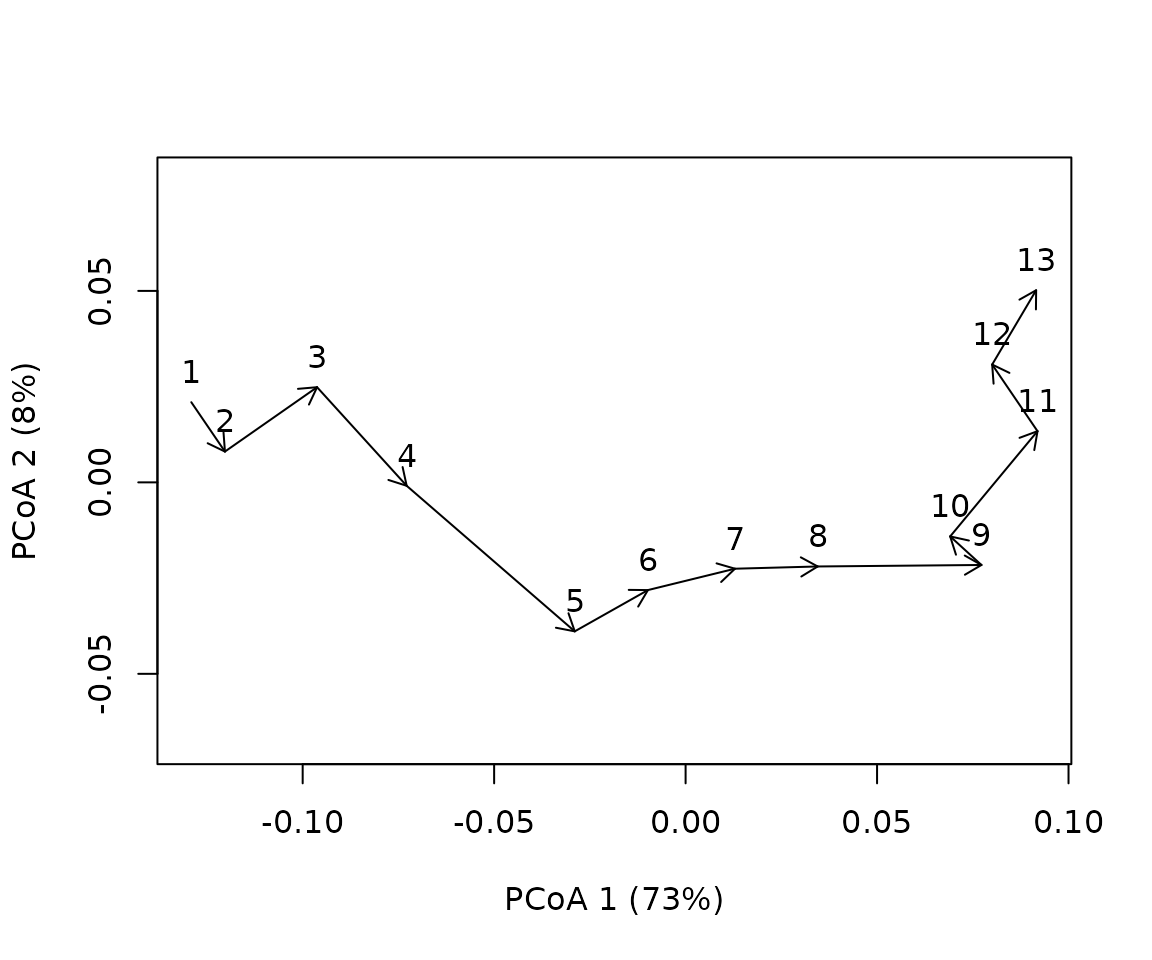
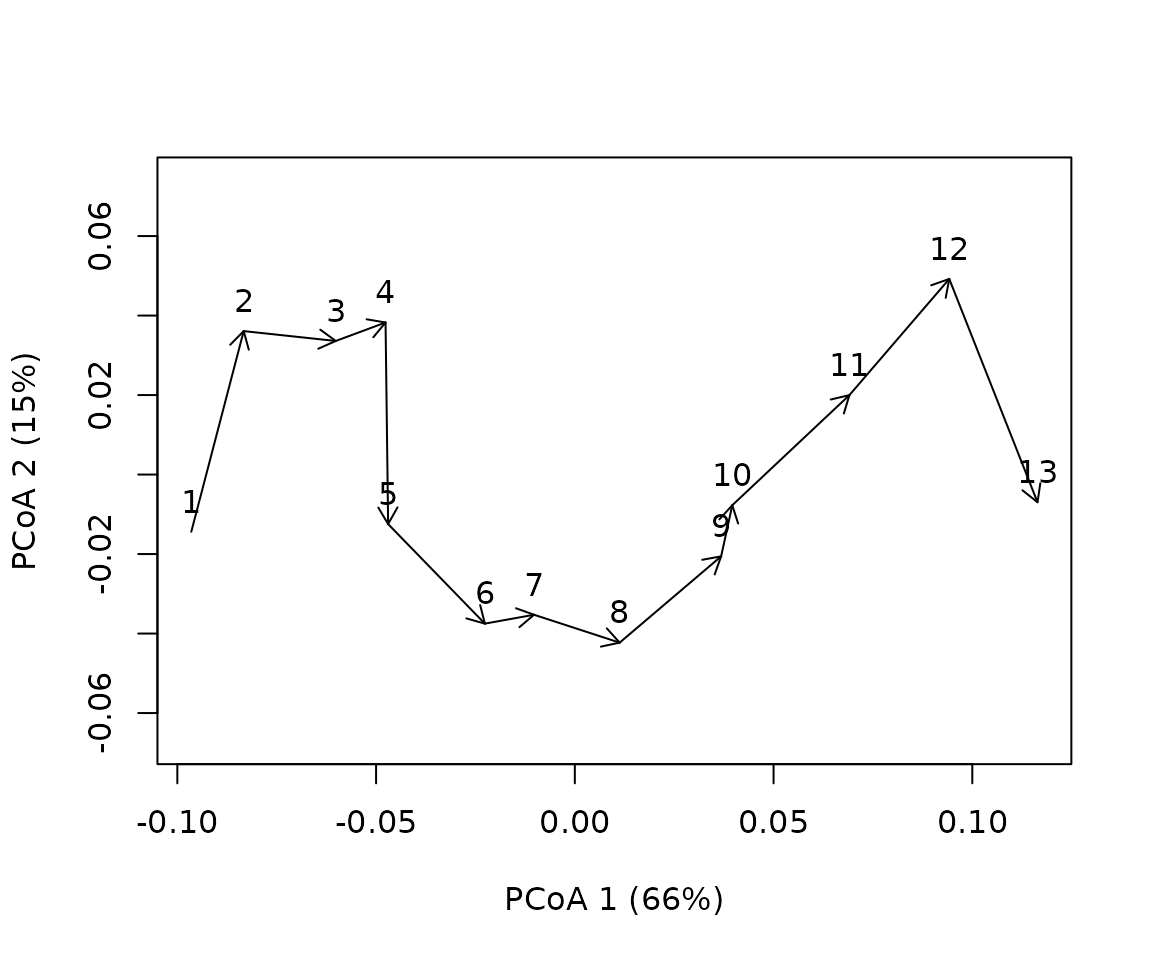
Built site for ecotraj: 0.1.1@

diff --git a/articles/Transformation.html b/articles/Transformation.html
@@ -33,7 +33,7 @@
       </button>
       <span class="navbar-brand">
         <a class="navbar-link" href="../index.html">ecotraj</a>
-        <span class="version label label-default" data-toggle="tooltip" data-placement="bottom" title="">0.1.0</span>
+        <span class="version label label-default" data-toggle="tooltip" data-placement="bottom" title="">0.1.1</span>
       </span>
     </div>
 
@@ -64,7 +64,7 @@ data</h1>
                         <h4 data-toc-skip class="author">Miquel De
 Cáceres</h4>
             
-            <h4 data-toc-skip class="date">2023-03-23</h4>
+            <h4 data-toc-skip class="date">2023-09-11</h4>
       
       
       <div class="hidden name"><code>Transformation.Rmd</code></div>
@@ -288,7 +288,7 @@ global solutions:</p>
 <span><span class="co">## </span></span>
 <span><span class="co">## Model: Symmetric SMACOF </span></span>
 <span><span class="co">## Number of objects: 13 </span></span>
-<span><span class="co">## Stress-1 value: 0.052 </span></span>
+<span><span class="co">## Stress-1 value: 0.053 </span></span>
 <span><span class="co">## Number of iterations: 0</span></span></code></pre>
 <div class="sourceCode" id="cb39"><pre class="downlit sourceCode r">
 <code class="sourceCode R"><span><span class="fu">smacof</span><span class="fu">::</span><span class="fu"><a href="https://rdrr.io/pkg/smacof/man/stress0.html" class="external-link">stress0</a></span><span class="op">(</span><span class="va">D</span>,<span class="va">pcoa</span><span class="op">$</span><span class="va">points</span>, type<span class="op">=</span><span class="st">"interval"</span><span class="op">)</span></span></code></pre></div>
@@ -298,7 +298,7 @@ global solutions:</p>
 <span><span class="co">## </span></span>
 <span><span class="co">## Model: Symmetric SMACOF </span></span>
 <span><span class="co">## Number of objects: 13 </span></span>
-<span><span class="co">## Stress-1 value: 0.009 </span></span>
+<span><span class="co">## Stress-1 value: 0.007 </span></span>
 <span><span class="co">## Number of iterations: 0</span></span></code></pre>
 <div class="sourceCode" id="cb41"><pre class="downlit sourceCode r">
 <code class="sourceCode R"><span><span class="fu">smacof</span><span class="fu">::</span><span class="fu"><a href="https://rdrr.io/pkg/smacof/man/stress0.html" class="external-link">stress0</a></span><span class="op">(</span><span class="va">D</span>,<span class="va">res</span><span class="op">$</span><span class="va">conf</span>, type<span class="op">=</span><span class="st">"interval"</span><span class="op">)</span></span></code></pre></div>
@@ -308,7 +308,7 @@ global solutions:</p>
 <span><span class="co">## </span></span>
 <span><span class="co">## Model: Symmetric SMACOF </span></span>
 <span><span class="co">## Number of objects: 13 </span></span>
-<span><span class="co">## Stress-1 value: 0.012 </span></span>
+<span><span class="co">## Stress-1 value: 0.013 </span></span>
 <span><span class="co">## Number of iterations: 0</span></span></code></pre>
 <p>Where we see that the square root leads to the strongest alteration
 of original dissimilarities. If we calculate geometric properties we are
@@ -323,16 +323,16 @@ dimensions.</p>
 <span><span class="va">df</span><span class="op">&lt;-</span><span class="fu"><a href="https://rdrr.io/r/base/as.data.frame.html" class="external-link">as.data.frame</a></span><span class="op">(</span><span class="fu"><a href="https://rdrr.io/r/base/cbind.html" class="external-link">rbind</a></span><span class="op">(</span><span class="va">anglesD</span>, <span class="va">anglesSqrtD</span>, <span class="va">anglesPcoaD</span>, <span class="va">anglesmmdsD</span><span class="op">)</span><span class="op">)</span></span>
 <span><span class="fu"><a href="https://rdrr.io/r/base/row.names.html" class="external-link">row.names</a></span><span class="op">(</span><span class="va">df</span><span class="op">)</span><span class="op">&lt;-</span><span class="fu"><a href="https://rdrr.io/r/base/c.html" class="external-link">c</a></span><span class="op">(</span><span class="st">"local"</span>, <span class="st">"global.sqrt"</span>, <span class="st">"global.pcoa"</span>, <span class="st">"global.mmds"</span><span class="op">)</span></span>
 <span><span class="fu"><a href="https://rdrr.io/r/base/Round.html" class="external-link">round</a></span><span class="op">(</span><span class="va">df</span>,<span class="fl">2</span><span class="op">)</span></span></code></pre></div>
-<pre><code><span><span class="co">##              S1-S2 S2-S3 S3-S4  S4-S5  S5-S6 S6-S7 S7-S8  S8-S9 S9-S10 S10-S11</span></span>
-<span><span class="co">## local        99.59 67.11  0.00  82.82 120.00  0.00  0.00    NaN  99.59   75.52</span></span>
-<span><span class="co">## global.sqrt 106.78 99.59 90.00 104.48 120.00 90.00 90.00 120.00 106.78  101.78</span></span>
-<span><span class="co">## global.pcoa 110.69 99.42 84.94 102.21 120.00 89.11 89.11 120.16 110.69  104.02</span></span>
-<span><span class="co">## global.mmds 104.52 85.74 59.71  95.86 123.02 60.89 51.24 130.01  94.94   86.16</span></span>
-<span><span class="co">##             S11-S12   mean   sd  rho</span></span>
-<span><span class="co">## local         82.82  65.52 0.78 0.74</span></span>
-<span><span class="co">## global.sqrt  104.48 103.07 0.18 0.98</span></span>
-<span><span class="co">## global.pcoa  108.27 103.52 0.20 0.98</span></span>
-<span><span class="co">## global.mmds   92.78  89.53 0.42 0.92</span></span></code></pre>
+<pre><code><span><span class="co">##             S1-S2 S2-S3  S3-S4 S4-S5 S5-S6 S6-S7  S7-S8 S8-S9 S9-S10 S10-S11</span></span>
+<span><span class="co">## local        0.00  0.00  97.18 62.72   0.0  0.00  75.52  0.00   0.00    0.00</span></span>
+<span><span class="co">## global.sqrt 90.00 90.00 104.48 98.30  90.0 90.00 101.78 90.00  90.00   90.00</span></span>
+<span><span class="co">## global.pcoa 82.73 97.67 106.77 93.15  94.1 97.67 101.86 94.10  94.10   83.48</span></span>
+<span><span class="co">## global.mmds 63.55 66.09 102.68 81.09  76.1 67.87  88.42 62.86  61.78   36.81</span></span>
+<span><span class="co">##             S11-S12  mean   sd  rho</span></span>
+<span><span class="co">## local         90.00 26.91 0.72 0.77</span></span>
+<span><span class="co">## global.sqrt  106.78 94.66 0.11 0.99</span></span>
+<span><span class="co">## global.pcoa  104.70 95.49 0.13 0.99</span></span>
+<span><span class="co">## global.mmds  100.19 73.43 0.32 0.95</span></span></code></pre>
 <p>The first call to <code>trajectoryAngles</code> with matrix
 <code>D</code> represents the default strategy of transforming triangles
 locally, which involves the weakest transformation of all and can be
@@ -346,19 +346,19 @@ transformation, compared to PCoA and the square root:</p>
 <div class="sourceCode" id="cb45"><pre class="downlit sourceCode r">
 <code class="sourceCode R"><span><span class="fu"><a href="../reference/trajectorymetrics.html">trajectoryDirectionality</a></span><span class="op">(</span><span class="va">D</span>,<span class="va">sites</span>,<span class="va">surveys</span><span class="op">)</span></span></code></pre></div>
 <pre><code><span><span class="co">##         1 </span></span>
-<span><span class="co">## 0.7222818</span></span></code></pre>
+<span><span class="co">## 0.7068225</span></span></code></pre>
 <div class="sourceCode" id="cb47"><pre class="downlit sourceCode r">
 <code class="sourceCode R"><span><span class="fu"><a href="../reference/trajectorymetrics.html">trajectoryDirectionality</a></span><span class="op">(</span><span class="va">sqrtD</span>,<span class="va">sites</span>,<span class="va">surveys</span><span class="op">)</span></span></code></pre></div>
 <pre><code><span><span class="co">##         1 </span></span>
-<span><span class="co">## 0.4624855</span></span></code></pre>
+<span><span class="co">## 0.4568228</span></span></code></pre>
 <div class="sourceCode" id="cb49"><pre class="downlit sourceCode r">
 <code class="sourceCode R"><span><span class="fu"><a href="../reference/trajectorymetrics.html">trajectoryDirectionality</a></span><span class="op">(</span><span class="va">pcoaD</span>,<span class="va">sites</span>,<span class="va">surveys</span><span class="op">)</span></span></code></pre></div>
 <pre><code><span><span class="co">##         1 </span></span>
-<span><span class="co">## 0.5238074</span></span></code></pre>
+<span><span class="co">## 0.5254678</span></span></code></pre>
 <div class="sourceCode" id="cb51"><pre class="downlit sourceCode r">
 <code class="sourceCode R"><span><span class="fu"><a href="../reference/trajectorymetrics.html">trajectoryDirectionality</a></span><span class="op">(</span><span class="va">mmdsD</span>,<span class="va">sites</span>,<span class="va">surveys</span><span class="op">)</span></span></code></pre></div>
-<pre><code><span><span class="co">##        1 </span></span>
-<span><span class="co">## 0.629571</span></span></code></pre>
+<pre><code><span><span class="co">##         1 </span></span>
+<span><span class="co">## 0.6120249</span></span></code></pre>
 </div>
 <div class="section level2">
 <h2 id="conclusions">4. Conclusions<a class="anchor" aria-label="anchor" href="#conclusions"></a>

diff --git a/reference/envelope.html b/reference/envelope.html
@@ -18,7 +18,7 @@ target stations/observations with respect to reference envelopes (Sturbois et al
       </button>
       <span class="navbar-brand">
         <a class="navbar-link" href="../index.html">ecotraj</a>
-        <span class="version label label-default" data-toggle="tooltip" data-placement="bottom" title="">0.1.0</span>
+        <span class="version label label-default" data-toggle="tooltip" data-placement="bottom" title="">0.1.1</span>
       </span>
     </div>
 
@@ -69,6 +69,7 @@ target stations/observations with respect to reference envelopes (Sturbois et al
 <span>  nboot.ci <span class="op">=</span> <span class="cn">NULL</span>,</span>
 <span>  alpha.ci <span class="op">=</span> <span class="fl">0.05</span>,</span>
 <span>  distances_to_envelope <span class="op">=</span> <span class="cn">FALSE</span>,</span>
+<span>  distance_percentiles <span class="op">=</span> <span class="cn">FALSE</span>,</span>
 <span>  <span class="va">...</span></span>
 <span><span class="op">)</span></span>
 <span></span>
@@ -79,6 +80,7 @@ target stations/observations with respect to reference envelopes (Sturbois et al
 <span>  nboot.ci <span class="op">=</span> <span class="cn">NULL</span>,</span>
 <span>  alpha.ci <span class="op">=</span> <span class="fl">0.05</span>,</span>
 <span>  distances_to_envelope <span class="op">=</span> <span class="cn">FALSE</span>,</span>
+<span>  distance_percentiles <span class="op">=</span> <span class="cn">FALSE</span>,</span>
 <span>  <span class="va">...</span></span>
 <span><span class="op">)</span></span></code></pre></div>
     </div>
@@ -119,6 +121,10 @@ target stations/observations with respect to reference envelopes (Sturbois et al
 
 <dt>distances_to_envelope</dt>
 <dd><p>Flag to indicate that distances to envelope should be included in the result</p></dd>
+
+
+<dt>distance_percentiles</dt>
+<dd><p>Flag to include the percentage of distances to the envelope (among sites corresponding to the reference) that are smaller than that of the site.</p></dd>
 
 </dl></div>
     <div id="value">

diff --git a/articles/IntroductionEQA.html b/articles/IntroductionEQA.html
@@ -33,7 +33,7 @@
       </button>
       <span class="navbar-brand">
         <a class="navbar-link" href="../index.html">ecotraj</a>
-        <span class="version label label-default" data-toggle="tooltip" data-placement="bottom" title="">0.1.0</span>
+        <span class="version label label-default" data-toggle="tooltip" data-placement="bottom" title="">0.1.1</span>
       </span>
     </div>
 
@@ -64,7 +64,7 @@
                         <h4 data-toc-skip class="author">Anthony
 Sturbois/Miquel De Cáceres</h4>
             
-            <h4 data-toc-skip class="date">2023-03-23</h4>
+            <h4 data-toc-skip class="date">2023-09-11</h4>
       
       
       <div class="hidden name"><code>IntroductionEQA.Rmd</code></div>

diff --git a/articles/IntroductionETA.html b/articles/IntroductionETA.html
@@ -33,7 +33,7 @@
       </button>
       <span class="navbar-brand">
         <a class="navbar-link" href="../index.html">ecotraj</a>
-        <span class="version label label-default" data-toggle="tooltip" data-placement="bottom" title="">0.1.0</span>
+        <span class="version label label-default" data-toggle="tooltip" data-placement="bottom" title="">0.1.1</span>
       </span>
     </div>
 
@@ -64,7 +64,7 @@
                         <h4 data-toc-skip class="author">Miquel De
 Cáceres</h4>
             
-            <h4 data-toc-skip class="date">2023-03-23</h4>
+            <h4 data-toc-skip class="date">2023-09-11</h4>
       
       
       <div class="hidden name"><code>IntroductionETA.Rmd</code></div>

diff --git a/articles/SITA.html b/articles/SITA.html
@@ -33,7 +33,7 @@
       </button>
       <span class="navbar-brand">
         <a class="navbar-link" href="../index.html">ecotraj</a>
-        <span class="version label label-default" data-toggle="tooltip" data-placement="bottom" title="">0.1.0</span>
+        <span class="version label label-default" data-toggle="tooltip" data-placement="bottom" title="">0.1.1</span>
       </span>
     </div>
 
@@ -63,7 +63,7 @@
                         <h4 data-toc-skip class="author">Anthony
 STURBOIS</h4>
             
-            <h4 data-toc-skip class="date">2023-03-23</h4>
+            <h4 data-toc-skip class="date">2023-09-11</h4>
       
       
       <div class="hidden name"><code>SITA.Rmd</code></div>

diff --git a/reference/avoca.html b/reference/avoca.html
@@ -21,7 +21,7 @@ which includes 9 surveys."><!-- mathjax --><script src="https://cdnjs.cloudflare
       </button>
       <span class="navbar-brand">
         <a class="navbar-link" href="../index.html">ecotraj</a>
-        <span class="version label label-default" data-toggle="tooltip" data-placement="bottom" title="">0.1.0</span>
+        <span class="version label label-default" data-toggle="tooltip" data-placement="bottom" title="">0.1.1</span>
       </span>
     </div>
 

diff --git a/reference/heatmapdata.html b/reference/heatmapdata.html
@@ -19,7 +19,7 @@ from 1998 to 2017."><!-- mathjax --><script src="https://cdnjs.cloudflare.com/aj
       </button>
       <span class="navbar-brand">
         <a class="navbar-link" href="../index.html">ecotraj</a>
-        <span class="version label label-default" data-toggle="tooltip" data-placement="bottom" title="">0.1.0</span>
+        <span class="version label label-default" data-toggle="tooltip" data-placement="bottom" title="">0.1.1</span>
       </span>
     </div>
 

diff --git a/reference/trajectorymetrics.html b/reference/trajectorymetrics.html
@@ -18,7 +18,7 @@ ETA takes trajectories as objects to be analyzed and compared geometrically."><!
       </button>
       <span class="navbar-brand">
         <a class="navbar-link" href="../index.html">ecotraj</a>
-        <span class="version label label-default" data-toggle="tooltip" data-placement="bottom" title="">0.1.0</span>
+        <span class="version label label-default" data-toggle="tooltip" data-placement="bottom" title="">0.1.1</span>
       </span>
     </div>
 

diff --git a/reference/trajectoryutils.html b/reference/trajectoryutils.html
@@ -22,7 +22,7 @@ Function is.metric checks whether the input dissimilarity matrix is metric (i.e.
       </button>
       <span class="navbar-brand">
         <a class="navbar-link" href="../index.html">ecotraj</a>
-        <span class="version label label-default" data-toggle="tooltip" data-placement="bottom" title="">0.1.0</span>
+        <span class="version label label-default" data-toggle="tooltip" data-placement="bottom" title="">0.1.1</span>
       </span>
     </div>
 

diff --git a/404.html b/404.html
@@ -32,7 +32,7 @@
       </button>
       <span class="navbar-brand">
         <a class="navbar-link" href="https://emf-creaf.github.io/ecotraj/index.html">ecotraj</a>
-        <span class="version label label-default" data-toggle="tooltip" data-placement="bottom" title="">0.1.0</span>
+        <span class="version label label-default" data-toggle="tooltip" data-placement="bottom" title="">0.1.1</span>
       </span>
     </div>
 

diff --git a/articles/index.html b/articles/index.html
@@ -17,7 +17,7 @@
       </button>
       <span class="navbar-brand">
         <a class="navbar-link" href="../index.html">ecotraj</a>
-        <span class="version label label-default" data-toggle="tooltip" data-placement="bottom" title="">0.1.0</span>
+        <span class="version label label-default" data-toggle="tooltip" data-placement="bottom" title="">0.1.1</span>
       </span>
     </div>
 

diff --git a/reference/furseals.html b/reference/furseals.html
@@ -17,7 +17,7 @@
       </button>
       <span class="navbar-brand">
         <a class="navbar-link" href="../index.html">ecotraj</a>
-        <span class="version label label-default" data-toggle="tooltip" data-placement="bottom" title="">0.1.0</span>
+        <span class="version label label-default" data-toggle="tooltip" data-placement="bottom" title="">0.1.1</span>
       </span>
     </div>
 
